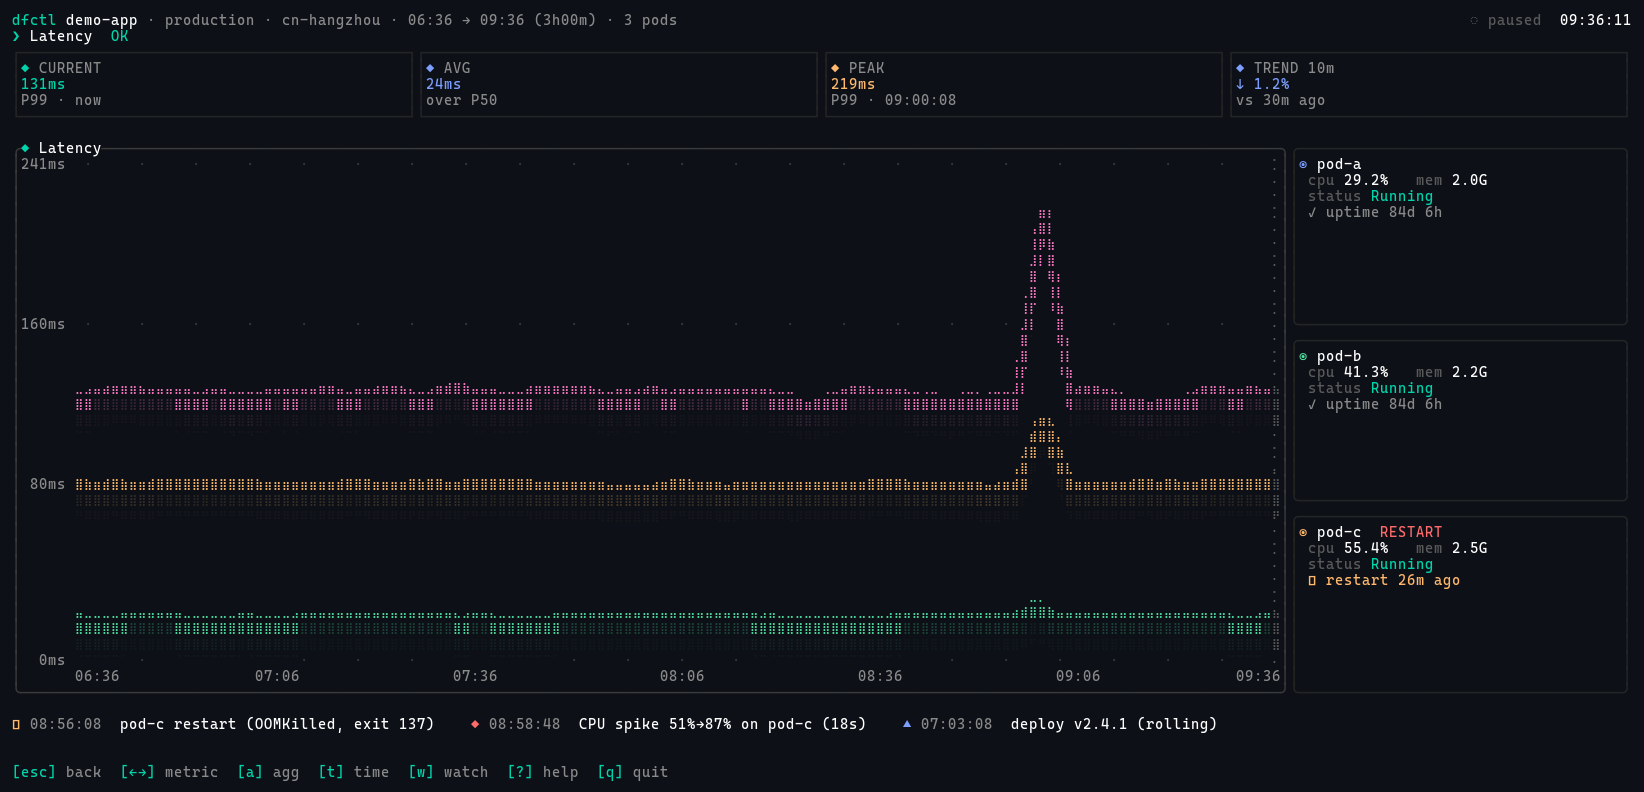
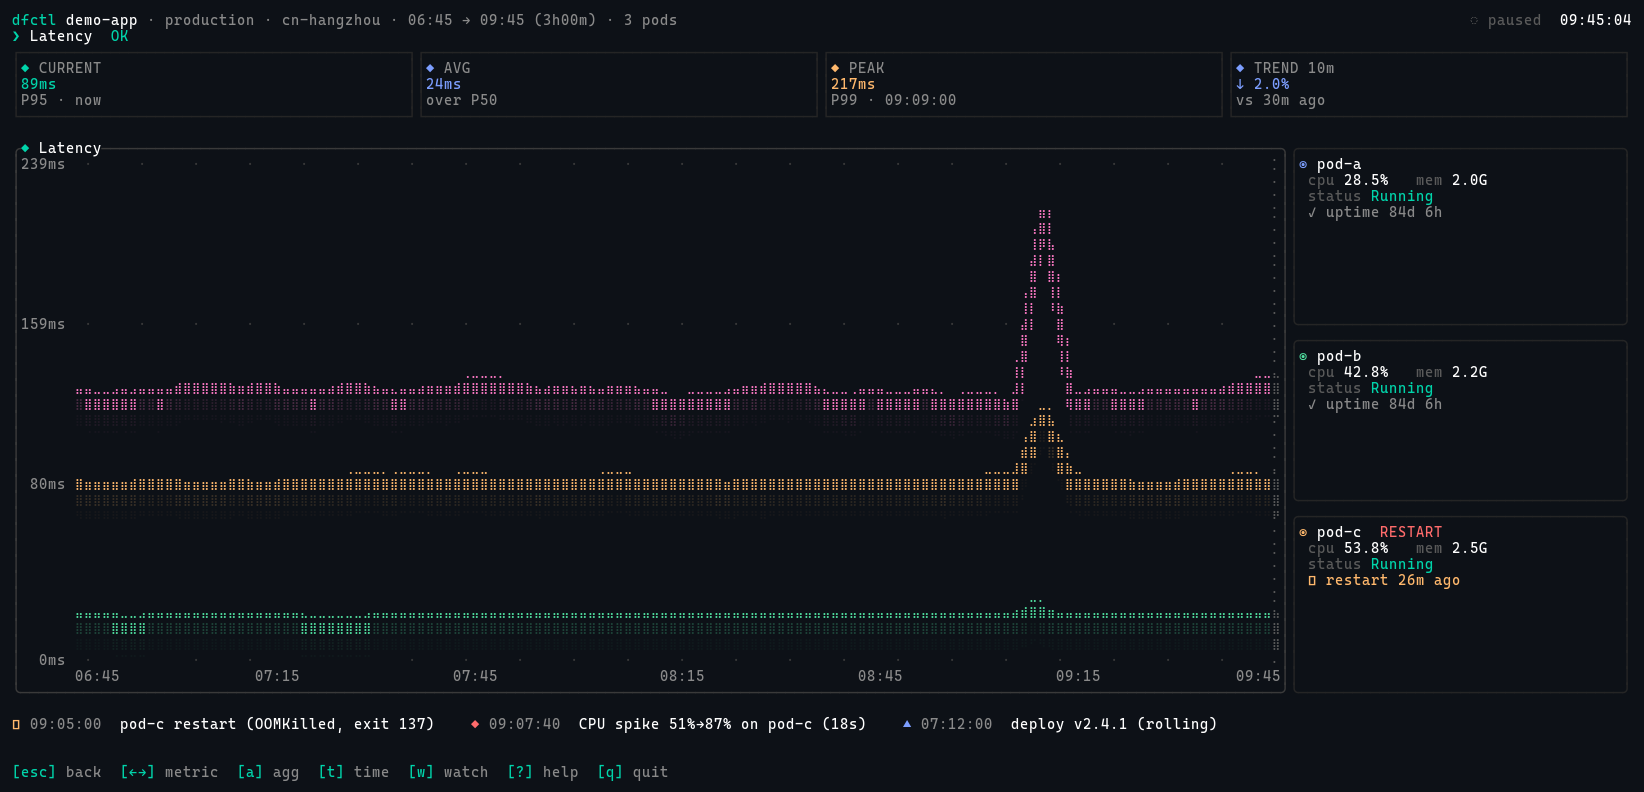
phase-4: P95 headline consistency, optional-panel skip, README sync
Codex review pointed out the "P95 SLO" decision wasn't carried all the way
through — Latency CURRENT still showed P99, preview still wrote P99, the
fallback threshold still tested P99.max. Now consistent: P95 is the
headline number everywhere.

 - render/helpers.rs::derive_current — P95 first, P99 fallback
 - widgets/panel.rs::build_preview — P95 in subtitle
 - theme.rs::assess_health — P95 current value, 120/200 ms gates
 - layout/overview.rs — fix stale "Cpu after Upstream" comment

Detail-view metric switching now skips optional panels that have no data
(input.rs::neighbour_metric). Bouncing into an empty Upstream/Runtime
page on a customer without BaaS / Prometheus exporter was janky.

README key bindings table updated:
 - R → t (time-range picker)
 - [ ] → ← → / h l (prev/next metric)
The footer / help overlay already match; this just brings the docs back
into sync after the phase-2 key rename.

diff --git a/src/commands/monitor/input.rs b/src/commands/monitor/input.rs
@@ -3,6 +3,35 @@ use super::layout::LayoutTier;
 use super::state::{AppState, TrafficUnit, View, RANGE_OPTIONS};
 use crossterm::event::{KeyCode, KeyEvent, KeyModifiers};
 
+/// Find the next visible metric in the requested direction, skipping
+/// optional panels that the API returned no series for. Returns None
+/// if no neighbour exists (shouldn't happen — required metrics always render).
+fn neighbour_metric(st: &AppState, current: MetricKind, direction: i32) -> Option<MetricKind> {
+    let order = MetricKind::all_default();
+    let len = order.len();
+    let start = order.iter().position(|x| *x == current).unwrap_or(0);
+    let mut idx = start;
+    for _ in 0..len {
+        idx = (idx as i32 + direction).rem_euclid(len as i32) as usize;
+        let candidate = order[idx];
+        // If this is a required metric, take it. For optional metrics, check
+        // that the API actually returned data (non-empty series).
+        let has_data = if candidate.is_optional() {
+            st.data
+                .as_ref()
+                .and_then(|d| d.metrics.get(&candidate))
+                .map(|md| !md.series.is_empty())
+                .unwrap_or(false)
+        } else {
+            true
+        };
+        if has_data && candidate != current {
+            return Some(candidate);
+        }
+    }
+    None
+}
+
 #[derive(Debug, Clone, Copy)]
 pub enum Action {
     None,
@@ -137,20 +166,26 @@ pub fn handle_key(key: KeyEvent, st: &mut AppState, tier: LayoutTier) -> Action 
                 st.view = View::Overview;
             }
             // ← / h : previous metric in detail view; [ kept as legacy alias.
+            // Skips optional panels (Upstream, Runtime) that the API didn't
+            // provide data for — bouncing into an empty page would be janky.
             KeyCode::Left | KeyCode::Char('h') | KeyCode::Char('[') => {
-                let order = MetricKind::all_default();
-                let idx = order.iter().position(|x| *x == m).unwrap_or(0);
-                let next = (idx + order.len() - 1) % order.len();
-                st.view = View::SingleMetric(order[next]);
-                st.focused_panel = next;
+                if let Some(next) = neighbour_metric(st, m, -1) {
+                    st.focused_panel = MetricKind::all_default()
+                        .iter()
+                        .position(|x| *x == next)
+                        .unwrap_or(0);
+                    st.view = View::SingleMetric(next);
+                }
             }
             // → / l : next metric in detail view; ] kept as legacy alias.
             KeyCode::Right | KeyCode::Char('l') | KeyCode::Char(']') => {
-                let order = MetricKind::all_default();
-                let idx = order.iter().position(|x| *x == m).unwrap_or(0);
-                let next = (idx + 1) % order.len();
-                st.view = View::SingleMetric(order[next]);
-                st.focused_panel = next;
+                if let Some(next) = neighbour_metric(st, m, 1) {
+                    st.focused_panel = MetricKind::all_default()
+                        .iter()
+                        .position(|x| *x == next)
+                        .unwrap_or(0);
+                    st.view = View::SingleMetric(next);
+                }
             }
             _ => {}
         },

diff --git a/src/commands/monitor/theme.rs b/src/commands/monitor/theme.rs
@@ -118,12 +118,15 @@ pub fn assess_health(metric: MetricKind, series: &[Series]) -> HealthStatus {
             HealthStatus::Ok
         }
         MetricKind::Latency => {
-            if let Some(p99) = series.iter().find(|s| matches!(s.kind, SeriesKind::Percentile(99))) {
-                let stats = p99.stats();
-                if stats.max > 250.0 {
+            // Fallback thresholds when API doesn't supply any. Watch P95 (not
+            // P99) for the same reason CURRENT and preview do — P99 is the
+            // tail and over-triggers ALERT on bursty workloads.
+            if let Some(p95) = series.iter().find(|s| matches!(s.kind, SeriesKind::Percentile(95))) {
+                let v = p95.current();
+                if v > 200.0 {
                     return HealthStatus::Alert;
                 }
-                if stats.max > 150.0 {
+                if v > 120.0 {
                     return HealthStatus::Warn;
                 }
             }

diff --git a/src/commands/monitor/render/helpers.rs b/src/commands/monitor/render/helpers.rs
@@ -106,8 +106,12 @@ pub fn kpi_format(v: f64, unit: &str) -> String {
 }
 
 pub fn derive_current(md: &MetricData) -> (f64, String) {
-    // For percentile metrics (latency) the "current" the user wants is P99 — that's
-    // the headline number on every dashboard. Fall through to max/first otherwise.
+    // For percentile metrics (latency) the "current" headline is P95 — P99 is
+    // alarmist and dominated by tail outliers; P95 reflects the typical slow
+    // user. Falls through to P99 / max / first if no P95 is available.
+    if let Some(p95) = md.series.iter().find(|s| matches!(s.kind, SeriesKind::Percentile(95))) {
+        return (p95.current(), "P95 · now".into());
+    }
     if let Some(p99) = md.series.iter().find(|s| matches!(s.kind, SeriesKind::Percentile(99))) {
         return (p99.current(), "P99 · now".into());
     }

diff --git a/src/commands/monitor/widgets/panel.rs b/src/commands/monitor/widgets/panel.rs
@@ -165,13 +165,15 @@ fn build_preview(metric: MetricKind, data: &MetricData) -> String {
             format_traffic(total_2xx)
         }
         MetricKind::Latency => {
-            let p99 = data
+            // Headline is P95 (typical slow user). P99 still surfaces in the
+            // subtitle row right below — preview should not over-trigger alarm.
+            let p95 = data
                 .series
                 .iter()
-                .find(|s| matches!(s.kind, SeriesKind::Percentile(99)))
+                .find(|s| matches!(s.kind, SeriesKind::Percentile(95)))
                 .map(|s| s.current())
                 .unwrap_or(0.0);
-            format!("P99 {:.0}ms", p99)
+            format!("P95 {:.0}ms", p95)
         }
         MetricKind::ErrorRate => {
             data.series

diff --git a/src/commands/monitor/layout/overview.rs b/src/commands/monitor/layout/overview.rs
@@ -87,7 +87,7 @@ pub fn compute_single_column(area: Rect) -> OverviewRects {
 
     // Weights: golden signals × 2, the rest × 1.
     // Order matches MetricKind::all_default(): Qps, Latency, ErrorRate,
-    // Upstream, Cpu, Memory, Replicas, Runtime.
+    // Cpu, Memory, Replicas, Upstream, Runtime.
     let weights = [2u16, 2, 2, 1, 1, 1, 1, 1];
     let constraints: Vec<Constraint> = weights.iter().map(|w| Constraint::Ratio(*w as u32, 11)).collect();
     let rows = Layout::default()

diff --git a/README.md b/README.md
@@ -17,7 +17,7 @@ It also speaks JSON so an AI agent can read what you're looking at.
 - **Responsive layouts** — 2×4 grid on desktop, single‑column on narrow windows, **dedicated phone tier** (single panel per page, dot indicator, ↑↓ to flip) for SSH from your phone.
 - **`watch` mode** — auto‑refresh with a live countdown in the header, pause/resume with space.
 - **Aggregation switching** — `a` cycles each panel through max / avg / sum / p95 / per‑pod. Title reflects the mode.
-- **Range picker** — `R` opens an overlay to flip between 15m / 1h / 3h / 6h / 12h / 24h.
+- **Range picker** — `t` opens an overlay to flip between 15m / 1h / 3h / 6h / 12h / 24h.
 - **JSON output** — `dfctl monitor <app> --json` writes structured data with `stats` (min/max/avg/p50/p95/p99) for upstream agents and scripts.
 - **Truecolor palette** — proper accent / warn / alert colors, status‑colored panel borders, dimmed subtitles.
 
@@ -27,7 +27,7 @@ It also speaks JSON so an AI agent can read what you're looking at.
 |---|---|
 | **Default overview** (2×4, 180×48) | **Single‑metric detail** (`dfctl monitor app --metric=cpu`) |
 | ![overview](docs/screenshots/overview.png) | ![single](docs/screenshots/single.png) |
-| **Range picker overlay** (`R`) | **Phone — single panel paging** (80×24) |
+| **Range picker overlay** (`t`) | **Phone — single panel paging** (80×24) |
 | ![range](docs/screenshots/range.png) | ![phone](docs/screenshots/phone.png) |
 | **Phone — single‑metric** (80×40) | |
 | ![phone single](docs/screenshots/phone_single.png) | |
@@ -66,9 +66,9 @@ dfctl monitor my-service --pod=pod-a,pod-b   # filter to specific pods
 | `Tab` / `Shift-Tab` | Cycle focus |
 | `Enter` | Open detail view |
 | `Esc` | Back to overview |
-| `[` `]` | Previous / next metric (detail view) |
+| `← →` / `h l` | Previous / next metric (detail view) |
 | `a` | Cycle aggregation (max → avg → sum → p95 → per‑pod) |
-| `R` | Range picker overlay |
+| `t` | Time-range picker overlay |
 | `u` | Toggle traffic unit (RPM / QPS / auto) |
 | `w` | Toggle watch mode |
 | `space` | Pause / resume watch |
